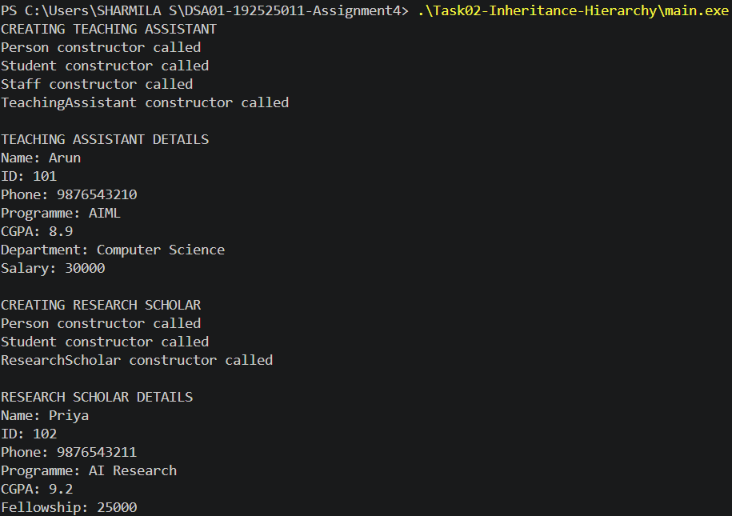
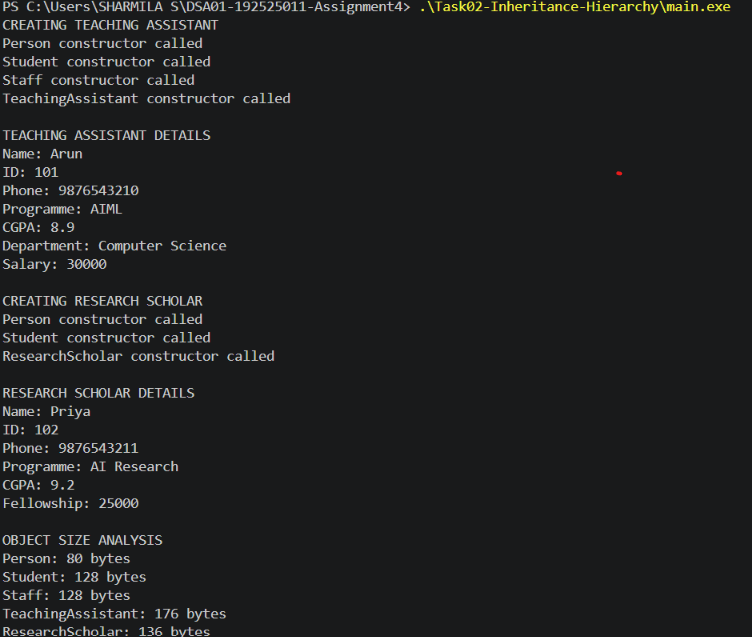
Add object size analysis for virtual inheritance

Changed region(s): [[0.0, 0.0, 1.0, 1.0]]

diff --git a/Task02-Inheritance-Hierarchy/main.cpp b/Task02-Inheritance-Hierarchy/main.cpp
@@ -121,6 +121,12 @@ int main() {
     );
 
     rs.display();
+    cout << "\nOBJECT SIZE ANALYSIS\n";
+cout << "Person: " << sizeof(Person) << " bytes\n";
+cout << "Student: " << sizeof(Student) << " bytes\n";
+cout << "Staff: " << sizeof(Staff) << " bytes\n";
+cout << "TeachingAssistant: " << sizeof(TeachingAssistant) << " bytes\n";
+cout << "ResearchScholar: " << sizeof(ResearchScholar) << " bytes\n";
 
     return 0;
 }

diff --git a/Task02-Inheritance-Hierarchy/without_virtual.cpp b/Task02-Inheritance-Hierarchy/without_virtual.cpp
@@ -119,6 +119,12 @@ int main() {
     );
 
     rs.display();
+    cout << "\nOBJECT SIZE ANALYSIS\n";
+cout << "Person: " << sizeof(Person) << " bytes\n";
+cout << "Student: " << sizeof(Student) << " bytes\n";
+cout << "Staff: " << sizeof(Staff) << " bytes\n";
+cout << "TeachingAssistant: " << sizeof(TeachingAssistant) << " bytes\n";
+cout << "ResearchScholar: " << sizeof(ResearchScholar) << " bytes\n";
 
     return 0;
 }

diff --git a/Task02-Inheritance-Hierarchy/analysis.md b/Task02-Inheritance-Hierarchy/analysis.md
@@ -130,3 +130,39 @@ Object sizes depend on compiler implementation, alignment, padding and virtual i
 ## 7. Conclusion
 
 The university management system demonstrates hierarchical, multiple, multilevel and hybrid inheritance. The diamond problem was reproduced by removing virtual inheritance and resolved by using virtual base classes. Virtual inheritance avoids duplicate Person subobjects and provides a consistent shared base-class representation.
+## 8. Experimental Object Size Comparison
+
+The sizeof() operator was used to measure the object sizes of the
+classes in both implementations.
+
+### Measured Results
+
+| Class | With Virtual Inheritance | Without Virtual Inheritance |
+|---|---:|---:|
+| Person | 80 bytes | 80 bytes |
+| Student | 128 bytes | 120 bytes |
+| Staff | 128 bytes | 120 bytes |
+| TeachingAssistant | 176 bytes | 240 bytes |
+| ResearchScholar | 136 bytes | 128 bytes |
+
+### Analysis
+
+The TeachingAssistant object occupies 176 bytes with virtual
+inheritance and 240 bytes without virtual inheritance.
+
+The 64-byte difference demonstrates the memory impact of duplicate
+Person subobjects in the non-virtual implementation.
+
+Student and Staff objects are slightly larger with virtual inheritance
+because of compiler-specific virtual base implementation overhead.
+
+The exact object sizes depend on the compiler, architecture,
+alignment and implementation details.
+
+### Conclusion
+
+The experiment confirms that virtual inheritance avoids duplicate
+Person subobjects in TeachingAssistant. Although virtual inheritance
+may introduce additional implementation overhead in individual base
+classes, it reduces the overall TeachingAssistant object size in
+this experiment.
